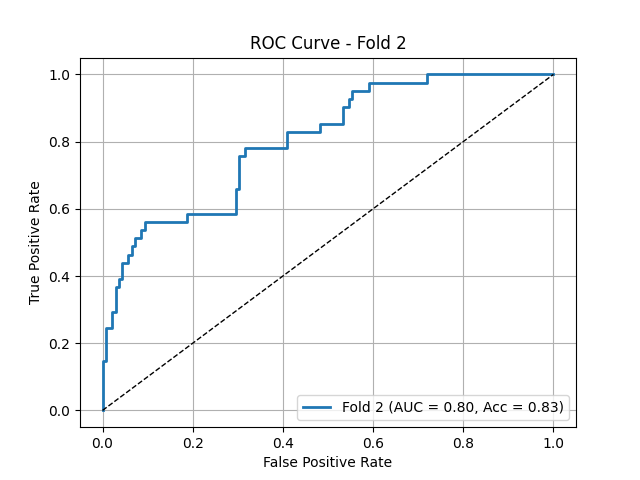
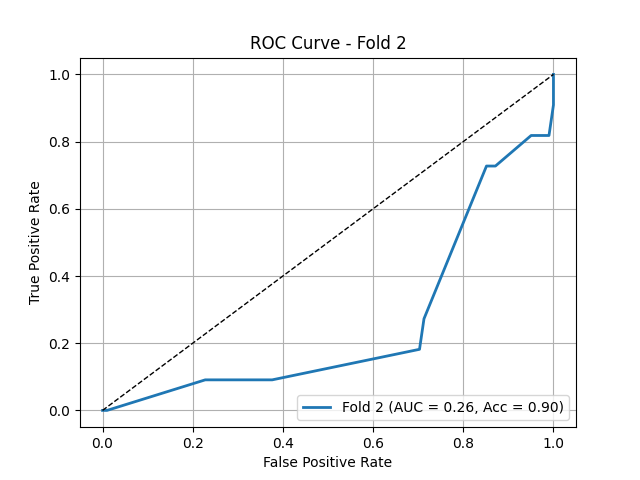
common patcher

diff --git a/fusion_models.py b/fusion_models.py
@@ -241,8 +241,21 @@ class BinaryClassificationTorch(nn.Module):
 
         return torch.cat(all_targets).numpy(), torch.cat(all_probs).numpy()
     
+class PatchEmbed(nn.Module):
+    def __init__(self, img_size=256, patch_size=16, in_chans=1, embed_dim=768):
+        super().__init__()
+        self.grid_size = img_size // patch_size
+        self.num_patches = self.grid_size ** 2
+        self.proj = nn.Conv2d(in_chans, embed_dim, kernel_size=patch_size, stride=patch_size)
+
+    def forward(self, x):
+        # x: [B, 1, H, W] → [B, embed_dim, H//P, W//P] → [B, num_patches, embed_dim]
+        x = self.proj(x)  # [B, E, H/P, W/P]
+        x = x.flatten(2).transpose(1, 2)  # [B, N, E]
+        return x
+    
 class ThreeModalTransformerClassifier(nn.Module):
-    def __init__(self, img_size=448, patch_size=32, embed_dim=256, num_heads=4, num_layers=6, num_classes=8):
+    def __init__(self, img_size=448, patch_size=32, embed_dim=256, num_heads=4, num_layers=6, num_classes=8, common_root_patcher = False):
         super().__init__()
 
         self.sdf_model = SDFModel()
@@ -254,10 +267,13 @@ class ThreeModalTransformerClassifier(nn.Module):
         self.patch_dim = (img_size // patch_size) ** 2
         self.patch_embed_dim = embed_dim
 
-        # Modality-specific CNNs (or lightweight ViTs if pretrained available)
-        self.so2_cnn = nn.Conv2d(1, embed_dim, kernel_size=patch_size, stride=patch_size)
-        self.thb_cnn = nn.Conv2d(1, embed_dim, kernel_size=patch_size, stride=patch_size)
-        self.us_cnn  = nn.Conv2d(1, embed_dim, kernel_size=patch_size, stride=patch_size)
+        if common_root_patcher:
+            self.common_patcher = PatchEmbed(img_size=img_size, patch_size=patch_size, in_chans=1, embed_dim=embed_dim)
+        else: 
+            # Modality-specific CNNs (or lightweight ViTs if pretrained available)
+            self.so2_cnn = nn.Conv2d(1, embed_dim, kernel_size=patch_size, stride=patch_size)
+            self.thb_cnn = nn.Conv2d(1, embed_dim, kernel_size=patch_size, stride=patch_size)
+            self.us_cnn  = nn.Conv2d(1, embed_dim, kernel_size=patch_size, stride=patch_size)
         
         # CLS token (shared)
         self.cls_token = nn.Parameter(torch.randn(1, 1, embed_dim))
@@ -299,10 +315,15 @@ class ThreeModalTransformerClassifier(nn.Module):
         #so2, thb,  = x[0], x[1]
         B = so2.size(0)
 
-        # 1. Patch embeddings via modality-specific CNNs
-        so2_patches = rearrange(self.so2_cnn(so2), 'b c h w -> b (h w) c')
-        thb_patches = rearrange(self.thb_cnn(thb), 'b c h w -> b (h w) c')
-        us_patches  = rearrange(self.us_cnn(x),  'b c h w -> b (h w) c')
+        if self.commond_root_patcher:
+            so2_patches = self.common_patcher(so2)
+            thb_patches = self.common_patcher(thb)
+            us_patches  = self.common_patcher(x)
+        else:
+            # 1. Patch embeddings via modality-specific CNNs
+            so2_patches = rearrange(self.so2_cnn(so2), 'b c h w -> b (h w) c')
+            thb_patches = rearrange(self.thb_cnn(thb), 'b c h w -> b (h w) c')
+            us_patches  = rearrange(self.us_cnn(x),  'b c h w -> b (h w) c')
 
         # 2. Add modality-specific tokens
         so2_patches += self.modality_tokens[0]

diff --git a/train_fusion_model.py b/train_fusion_model.py
@@ -70,7 +70,7 @@ for fold in range(k_fold):
     #                              encoder_weight_path = r"checkpoints\normtverskyloss_binary_segmentation\a56e77a\best-checkpoint-epoch=77-validation\loss=0.2544.ckpt", 
     #                              sdf_model_path= r"checkpoints\deeplabv3_sdf_randomcrop\model_20250711_201243\epoch_84",
     #                              radiomics= False).to(device)
-    model = ThreeModalTransformerClassifier(num_classes = 1).to(device)
+    model = ThreeModalTransformerClassifier(num_classes = 1, common_root_patcher= True).to(device)
     #optimizer = torch.optim.Adam(model.parameters(), lr=5e-5, weight_decay=1e-5)
     optimizer = torch.optim.AdamW(model.parameters(), lr=5e-4, weight_decay=1e-2)
     scheduler = CosineAnnealingWarmRestarts(optimizer, T_0=10, T_mult=2, eta_min=1e-6)
